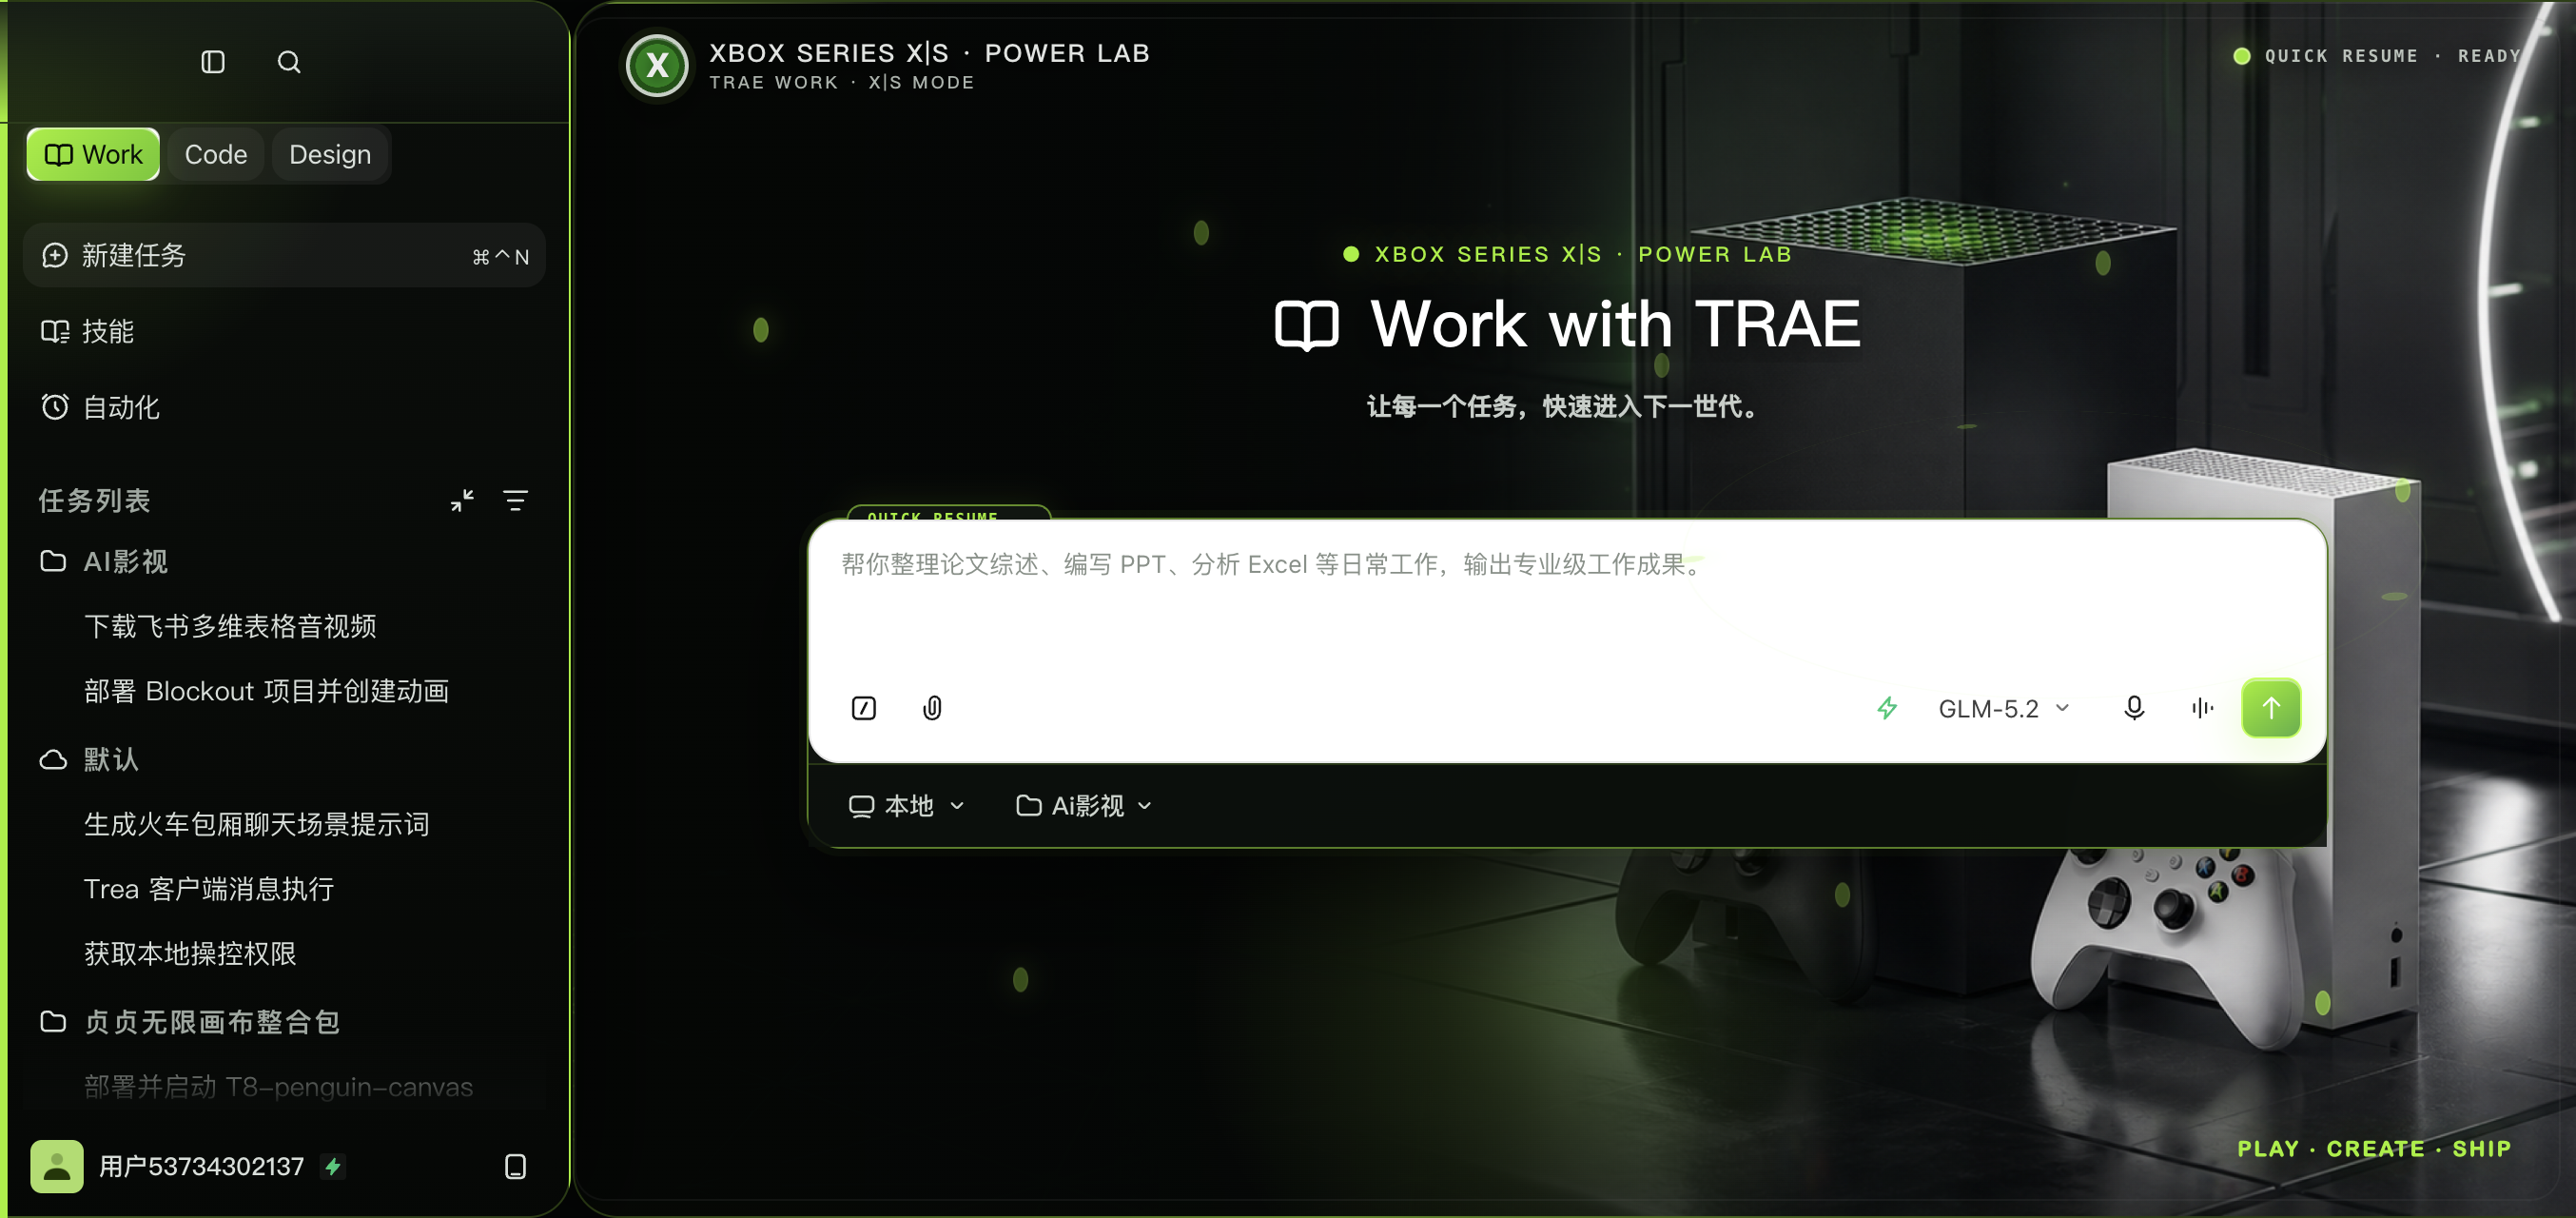
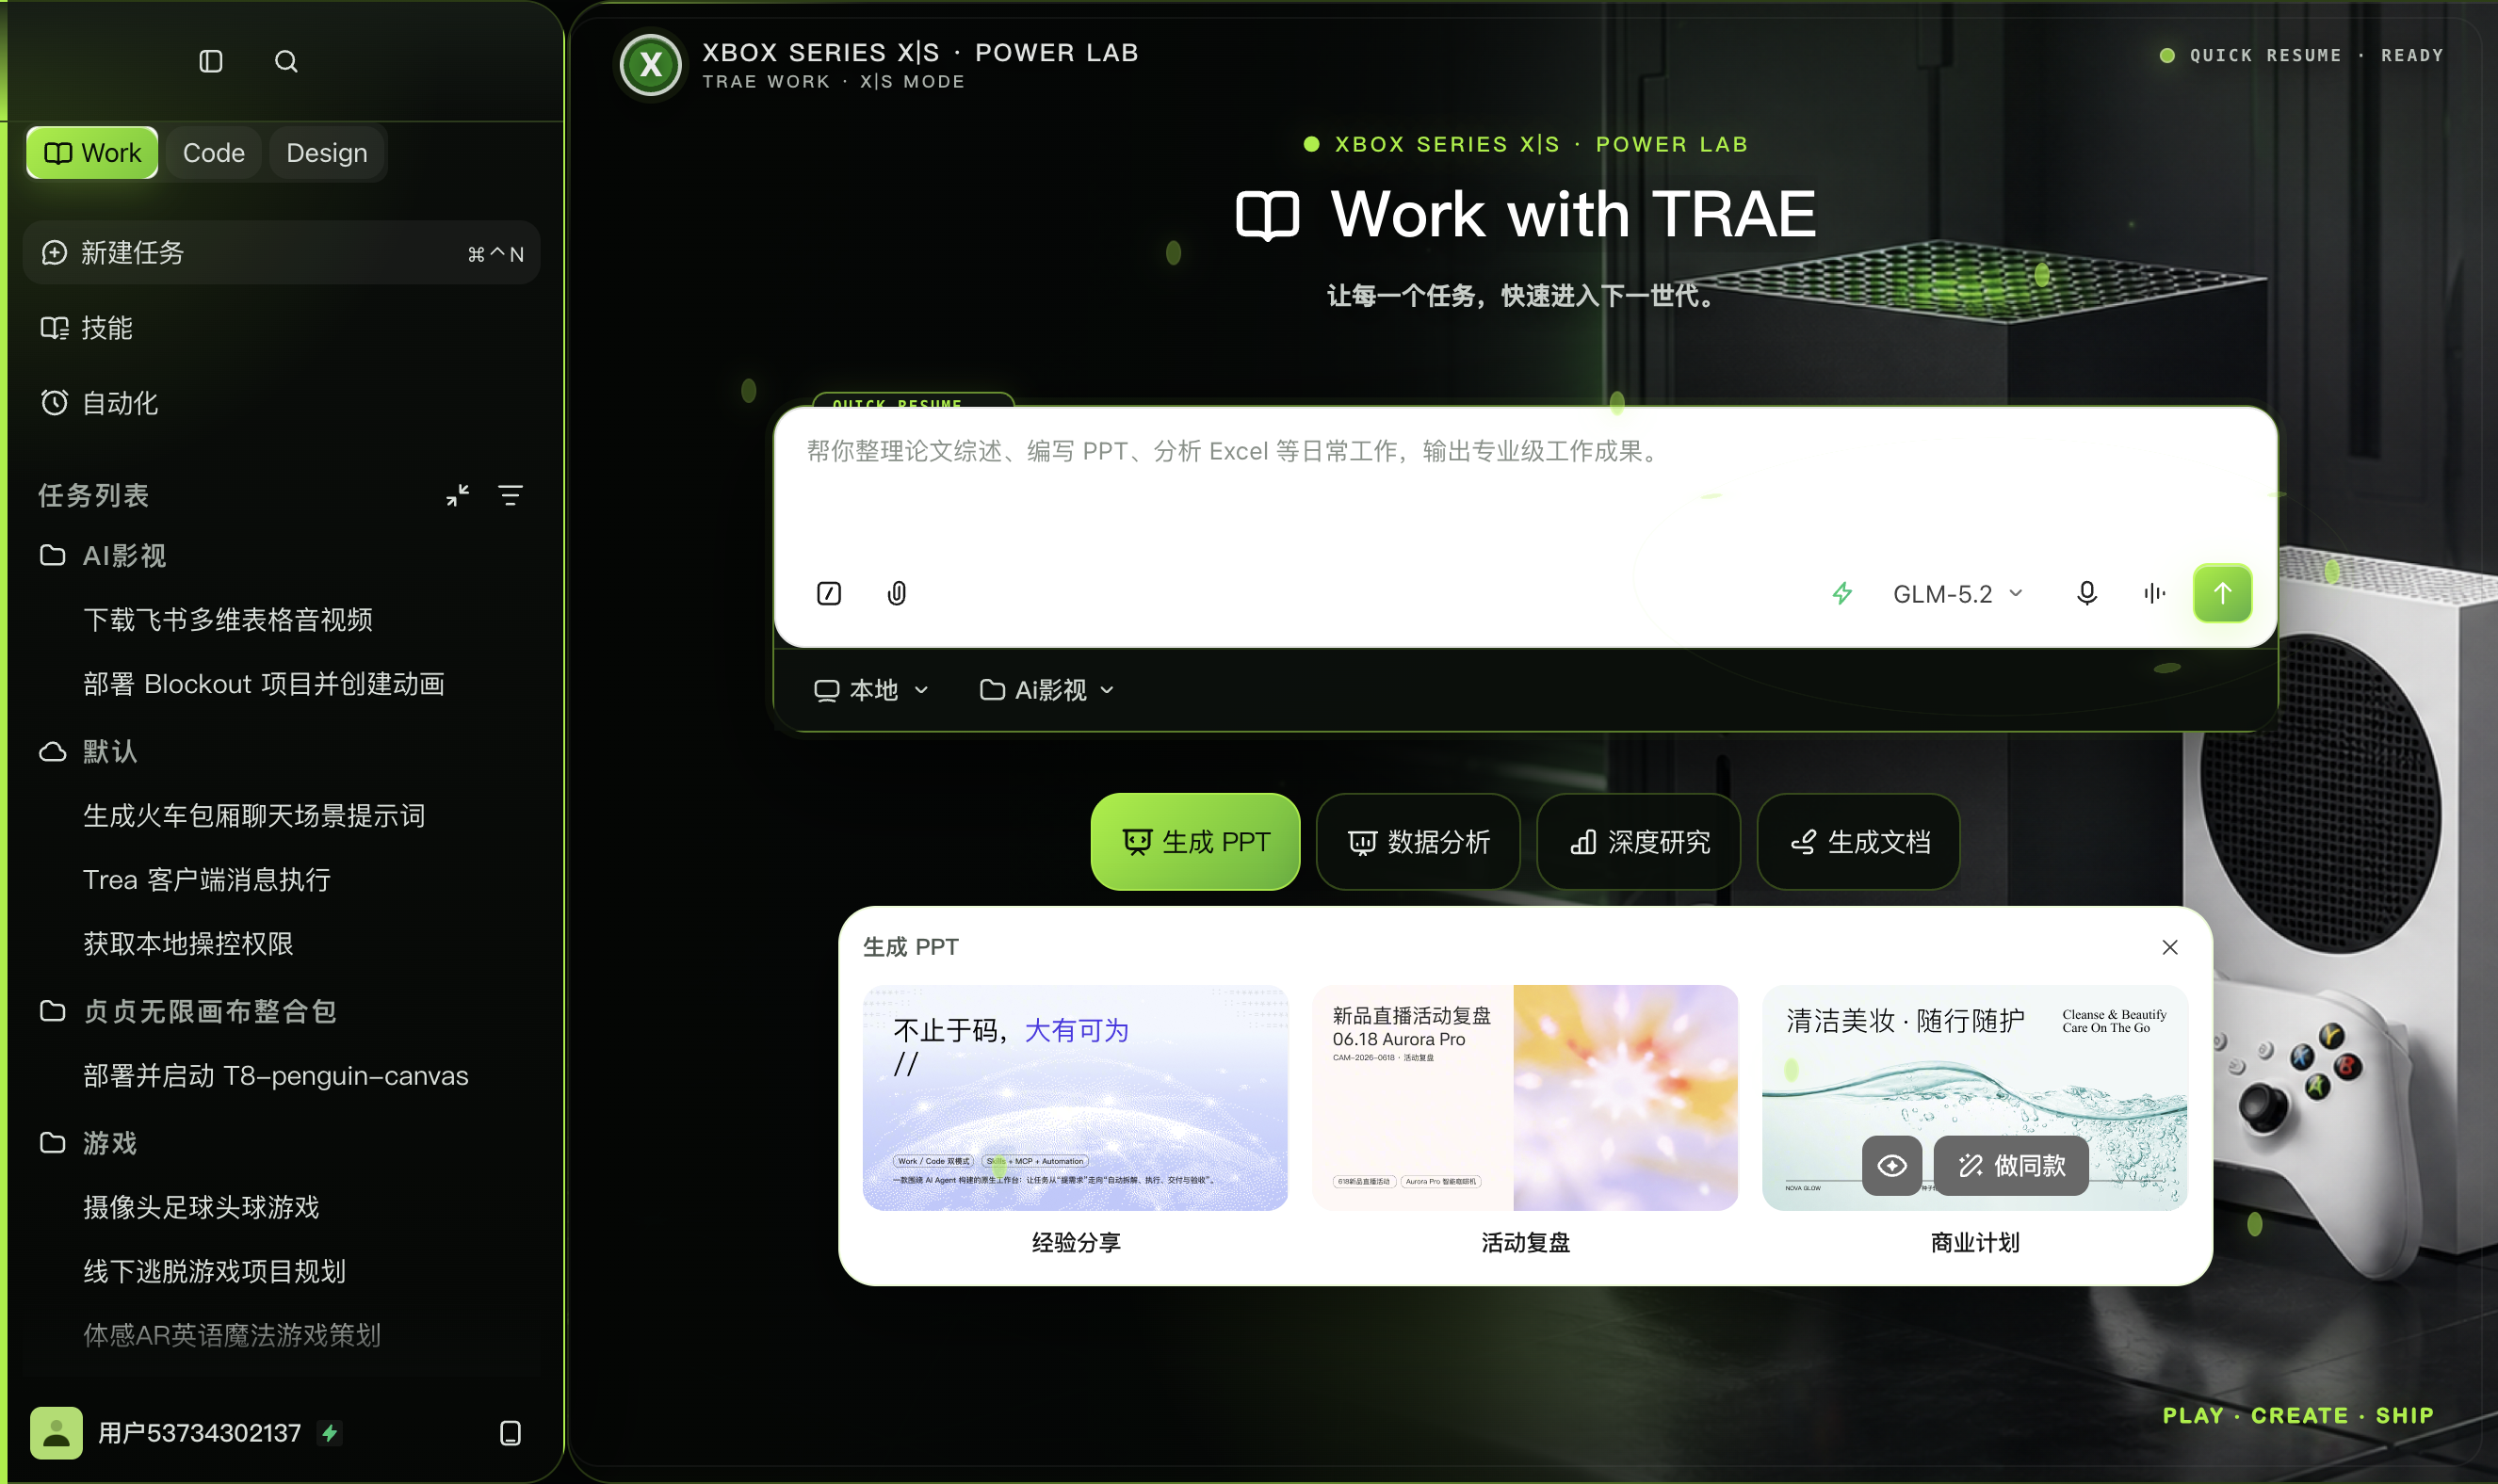
docs: correct platform screenshot galleries

diff --git a/README.en.md b/README.en.md
@@ -16,21 +16,21 @@ A complete desktop-theme workflow for Codex, Tencent WorkBuddy, and TRAE Work. T
 
 ![Codex ASTRO BOT home](screenshots/codex/home.png)
 
-![Codex ASTRO BOT expressions](screenshots/codex/expressions.png)
+![Codex ASTRO BOT project view](screenshots/codex/project.png)
+
+![Codex DualSense pet actions and expressions](screenshots/codex/pet.png)
 
 ### WorkBuddy · Switch 2
 
 ![WorkBuddy Switch 2 home](screenshots/workbuddy/home.png)
 
-![WorkBuddy Switch 2 conversation](screenshots/workbuddy/conversation.png)
+![WorkBuddy Switch 2 project view](screenshots/workbuddy/project.png)
 
 ### TRAE · Xbox Series X|S
 
 ![TRAE Xbox home](screenshots/trae/home.png)
 
-![TRAE Xbox conversation](screenshots/trae/conversation.png)
-
-![TRAE Xbox input contrast](screenshots/trae/input-contrast.png)
+![TRAE Xbox project view](screenshots/trae/project.png)
 
 ## Install the Skills
 

diff --git a/README.md b/README.md
@@ -16,21 +16,21 @@
 
 ![Codex ASTRO BOT 首页](screenshots/codex/home.png)
 
-![Codex ASTRO BOT 表情与组件](screenshots/codex/expressions.png)
+![Codex ASTRO BOT 项目页](screenshots/codex/project.png)
+
+![Codex DualSense 宠物动作与表情](screenshots/codex/pet.png)
 
 ### WorkBuddy · Switch 2
 
 ![WorkBuddy Switch 2 首页](screenshots/workbuddy/home.png)
 
-![WorkBuddy Switch 2 会话页](screenshots/workbuddy/conversation.png)
+![WorkBuddy Switch 2 项目页](screenshots/workbuddy/project.png)
 
 ### TRAE · Xbox Series X|S
 
 ![TRAE Xbox 首页](screenshots/trae/home.png)
 
-![TRAE Xbox 会话页](screenshots/trae/conversation.png)
-
-![TRAE Xbox 输入文字对比度](screenshots/trae/input-contrast.png)
+![TRAE Xbox 项目页](screenshots/trae/project.png)
 
 ## 安装 Skills
 